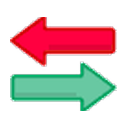
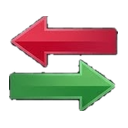
Icone del menu e della barra rifatte dalla tavola nuova
Dodici del menu e cinque sagome della barra. Le vecchie erano ritagliate da due
tavole dove ogni icona aveva 46-74 pixel veri (il menu) e circa 80 (la barra, e
per giunta da un JPEG), gonfiati a 110 su una tela da 128. La tavola nuova ne
porta 89-158, quindi anche stavolta ogni icona viene RIDOTTA, mai allargata.

La tavola e' un JPEG e la trasparenza e' DISEGNATA: la scacchiera grigia non e'
un canale alpha, sono pixel. Lo sfondo va quindi tolto davvero, e si puo' fare
bene perche' la scacchiera ha due proprieta' che il disegno non ha: e' grigia
(rosso, verde e blu uguali) e sta in una fascia di luminosita' nota. Con la
tavola precedente, che aveva le icone su tessere blu, non si poteva: il globo
di live e' blu, e qualunque soglia lo bucava insieme allo sfondo.

scripts/ritaglia-tavola-menu.py fa il lavoro, con due strategie diverse perche'
i due gruppi sono due cose diverse.

Il menu sono disegni a colori: lo sfondo e' "grigio e nella fascia", ma solo
quello ATTACCATO AL BORDO. Senza questa regola il grigio DENTRO un'icona
sparirebbe, e le persone di squadre, la calcolatrice di voti e le foto di
vice-allenatore si bucherebbero. E' la stessa regola che usava make-icone.py.

La barra sono sagome bianche che diventano maschere, e li' il colore non serve:
basta la luce, perche' il bianco sta lontanissimo dalla scacchiera e la
sfumatura del bordo viene fuori pulita da sola. Con la regola del menu si
mangiava il 15% del grafico, che e' tutto linee sottili.
[…]

diff --git a/sw.js b/sw.js
@@ -1,5 +1,5 @@
 /* Service worker — shell in cache, aggiornamento in background. */
-const VERSION = 'fcs-v4.2.26';
+const VERSION = 'fcs-v4.2.27';
 const SHELL = [
   './', './index.html', './manifest.webmanifest', './styles/app.css', './styles/logo.css', './styles/font.css', './design/tokens/tokens.css',
   // I caratteri stanno in casa: nella cache ci vanno, se no senza rete si vede

diff --git a/scripts/ritaglia-tavola-menu.py b/scripts/ritaglia-tavola-menu.py
@@ -1,0 +1,111 @@
+#!/usr/bin/env python3
+"""Ritaglia media/nuove-icone-menu.jpg nelle icone del menu e nelle sagome della barra.
+
+La tavola arriva come JPEG e la trasparenza e' DISEGNATA: la scacchiera grigia
+non e' un canale alpha, sono pixel. Quindi lo sfondo va tolto davvero. Si puo'
+fare, e bene, perche' la scacchiera ha due proprieta' che il disegno non ha:
+e' grigia (rosso, verde e blu uguali) e sta in una fascia di luminosita' nota.
+
+Due gruppi, due strategie diverse, perche' sono due cose diverse:
+
+MENU — disegni a colori. Lo sfondo e' "grigio e nella fascia", ma solo quello
+ATTACCATO AL BORDO: senza questa regola il grigio DENTRO un'icona sparirebbe, e
+le persone di squadre, la calcolatrice di voti e le foto di vice-allenatore si
+bucherebbero. E' la stessa regola che usava make-icone.py per le vecchie.
+
+BARRA — sagome bianche, che diventano maschere: l'app ci mette dentro il colore
+via CSS ed e' cosi' che la voce attiva diventa blu. Qui il grigio non serve:
+basta la luce, perche' il bianco (255) sta lontanissimo dalla scacchiera (63-98)
+e la sfumatura del bordo viene fuori pulita da sola. Con la regola del menu si
+mangiava il 15% del grafico, che e' tutto linee sottili.
+
+La fascia dello sfondo scende fino a 18 e non si ferma a 45 perche' l'ombra
+portata sotto ogni icona scurisce la scacchiera: fermandosi prima restavano
+attaccati i dentini dei quadretti scuri.
+
+    python3 scripts/ritaglia-tavola-menu.py [--prova]
+"""
+import sys
+from pathlib import Path
+from PIL import Image, ImageFilter
+import numpy as np
+from scipy import ndimage as ndi
+
+RADICE = Path(__file__).resolve().parent.parent / 'media'
+TAVOLA = RADICE / 'nuove-icone-menu.jpg'
+
+# riga di tessere -> (gruppo, nomi in ordine)
+GRIGLIA = [
+    (69, 229, 'menu', ['assist', 'fantascore', 'guide', 'leghe', 'live', 'probabili']),
+    (314, 453, 'menu', ['quotazioni', 'squadre', 'statistiche', 'trasferimenti', 'vice-allenatore', 'voti']),
+    (599, 736, 'nav', ['campo', 'maglia-10', 'calendario', 'coppa', 'grafico']),
+]
+
+def bande(v, soglia=1, minimo=12):
+    out, inizio = [], None
+    for i, x in enumerate(v):
+        if x >= soglia and inizio is None:
+            inizio = i
+        elif x < soglia and inizio is not None:
+            if i - 1 - inizio >= minimo:
+                out.append((inizio, i - 1))
+            inizio = None
+    if inizio is not None and len(v) - 1 - inizio >= minimo:
+        out.append((inizio, len(v) - 1))
+    return out
+
+def main():
+    prova = '--prova' in sys.argv
+    im = Image.open(TAVOLA).convert('RGB')
+    a = np.array(im).astype(float)
+    luce = a.mean(axis=2)
+    colore = a.max(axis=2) - a.min(axis=2)
+
+    # --- fondo del menu: grigio, nella fascia, e attaccato al bordo
+    grezzo = (colore < 16) & (luce > 18) & (luce < 115)
+    etichette, _ = ndi.label(grezzo)
+    ai_bordi = set(etichette[0].tolist()) | set(etichette[-1].tolist()) \
+             | set(etichette[:, 0].tolist()) | set(etichette[:, -1].tolist())
+    ai_bordi.discard(0)
+    # erosione di 1: il bordo sfumato dal JPEG e' meta' disegno e meta' scacchiera
+    pieno = ndi.binary_erosion(~np.isin(etichette, list(ai_bordi)), np.ones((3, 3)))
+
+    # --- fondo della barra: basta la luce, il bianco e' lontano dal grigio
+    bianco = np.clip((luce - 118) / 40, 0, 1)
+
+
+    for y0, y1, gruppo, nomi in GRIGLIA:
+        guida = pieno if gruppo == 'menu' else (bianco > 0.25)
+        colonne = bande(guida[y0:y1 + 1].sum(axis=0))
+        if len(colonne) != len(nomi):
+            print(f'riga {y0}-{y1}: attese {len(nomi)} icone, trovate {len(colonne)}', file=sys.stderr)
+            return 1
+        uscita = RADICE / 'icone-sorgenti' / gruppo
+        in_uso = RADICE / 'icone' / gruppo
+        uscita.mkdir(parents=True, exist_ok=True)
+        for (x0, x1), nome in zip(colonne, nomi):
+            if gruppo == 'menu':
+                m = pieno[y0:y1 + 1, x0:x1 + 1]
+                ys, xs = np.where(m)
+                taglio = (x0 + xs.min(), y0 + ys.min(), x0 + xs.max() + 1, y0 + ys.max() + 1)
+                alfa = Image.fromarray((m[ys.min():ys.max() + 1, xs.min():xs.max() + 1] * 255)
+                                       .astype(np.uint8), 'L').filter(ImageFilter.GaussianBlur(0.7))
+                fuori = im.crop(taglio).convert('RGBA')
+            else:
+                al = bianco[y0:y1 + 1, x0:x1 + 1]
+                m = al > 0.25
+                ys, xs = np.where(m)
+                ritaglio = al[ys.min():ys.max() + 1, xs.min():xs.max() + 1]
+                alfa = Image.fromarray((ritaglio * 255).astype(np.uint8), 'L')
+                # maschera: la forma sta nell'alfa, il colore lo mette la CSS
+                fuori = Image.new('RGBA', alfa.size, (255, 255, 255, 255))
+            fuori.putalpha(alfa)
+            print(f'  {gruppo:5} {nome:18} {fuori.size[0]:3}x{fuori.size[1]}')
+            if not prova:
+                fuori.save(uscita / f'{nome}.png')
+                fuori.save(in_uso / f'{nome}.png')
+    print('\nprova: niente e\' stato scritto.' if prova else '\nscritte.')
+    return 0
+
+if __name__ == '__main__':
+    sys.exit(main())
